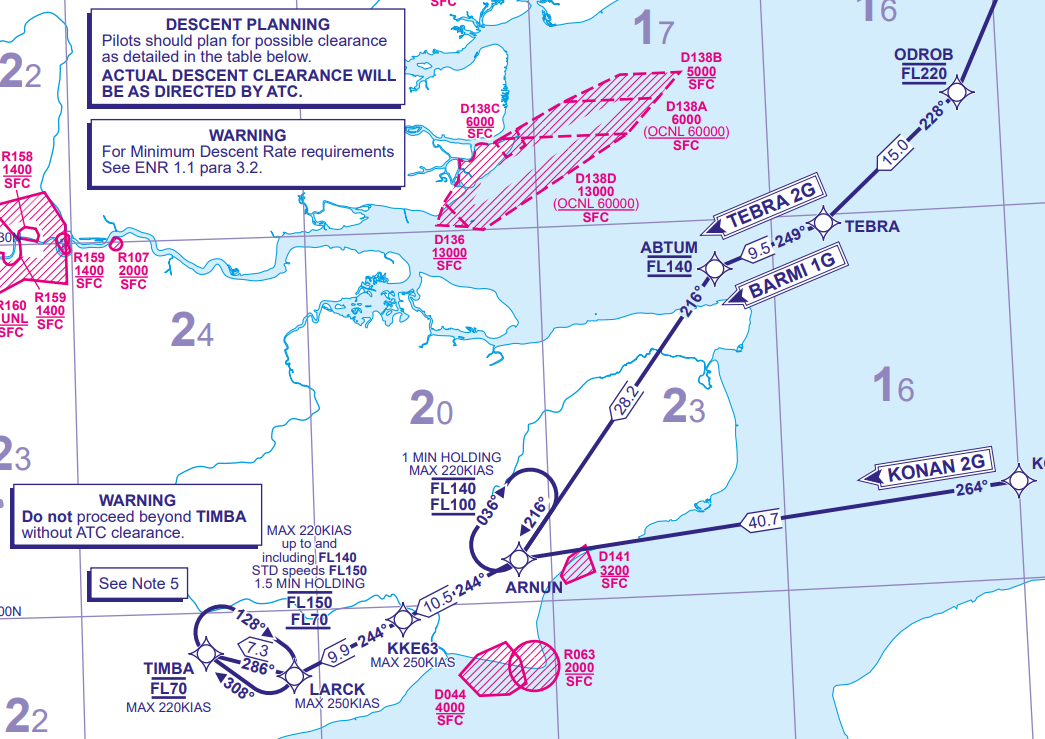
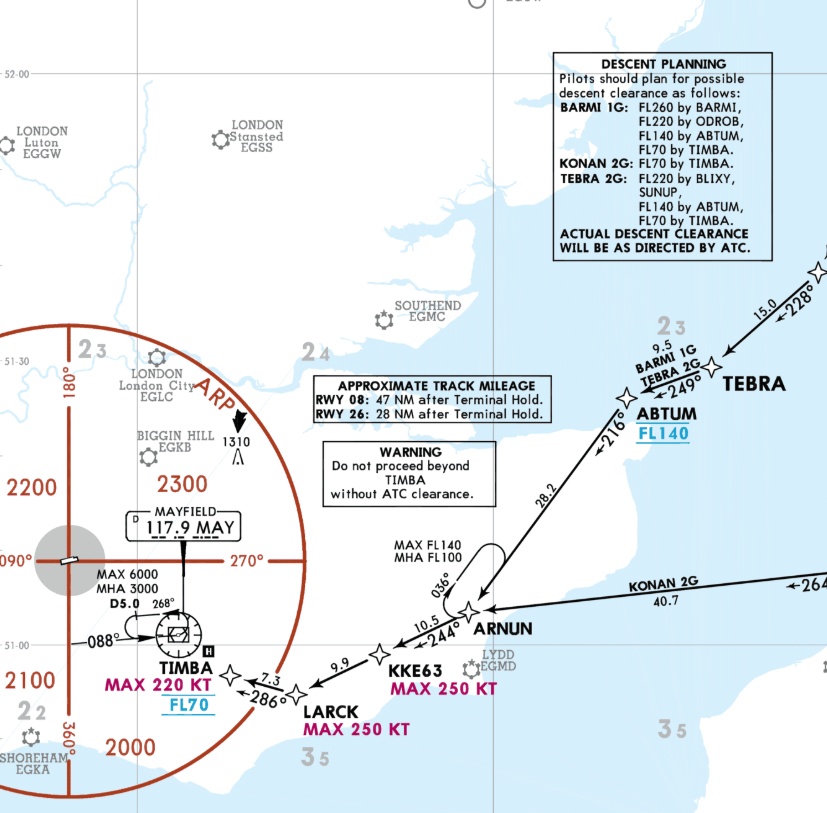
Use og Navigraph charts as per their Brand Guidelines

diff --git a/docs/beginner-guide/descent.md b/docs/beginner-guide/descent.md
@@ -39,7 +39,7 @@ This guide will cover these phases:
 ## Base knowledge: Route, Star and Approach
 
 - __Basics__<br/>
-  As we have learned in previous chapters a flight route begins with a origin airport and a SID to safely guide the aircraft away from the airport to the first waypoint on their actual route. Similar to a SID the arrival to an airport is done via a STAR (Standard Terminal Arrival Route) and an IAP (Instrument Approach, often APPR) to safely bring the aircraft into a position to land on the destination airport with as little ATC communication as possible.
+  As we have learned in previous chapters a flight route begins with an origin airport and a SID to safely guide the aircraft away from the airport to the first waypoint on their actual route. Similar to a SID the arrival to an airport is done via a STAR (Standard Terminal Arrival Route) and an IAP (Instrument Approach, often APPR) to safely bring the aircraft into a position to land on the destination airport with as little ATC communication as possible.
 
 - __STAR__<br/>
   A Standard Terminal Arrival Route (STAR) ensures safe and efficient traffic from the last en-route waypoint to the initial approach fix (IAF) of the Instrument Approach (IAP). It separates aircraft and avoids conflicts through specific routing, levels/altitudes, speed restrictions and checkpoints often with holding areas.
@@ -72,8 +72,7 @@ This guide will cover these phases:
 !!! info "Microsoft Flight Simulator and navigation charts"
     Although Microsoft Flight Simulator allows some flight planning through the user interface it is highly recommended to use navigational charts when flying airliners. MSFS' flight planning does not provide sufficient information to correctly fly a STAR or an approach.
 
-    There are several good sources for charts. One we can recommend is
-    [Chartfox](https://chartfox.org/) which you can use for free after creating a free VATSIM account.
+    There are several good sources for charts - free or subscription based. A good free solution is [Chartfox](https://chartfox.org/) which only requires a VATSIM account. One of the most known subscription based sources for charts is [Navigraph](https://navigraph.com/home). It is planned to integrate both solutions into the FlyByWire A32NX FlyPad in the future. 
     
     Often a simple Internet search will do the trick: Search for "<airport icao code> charts": E.g., "EDDM charts"  
 
@@ -119,9 +118,9 @@ I will do this as the very last step -->
 
 **Example chart:**
 
-![STAR EGKK TEBRA](../assets/beginner-guide/descent/STAR_EGKK_TEBRA.png "STAR EGKK TEBRA")
-
-(source: [www.aurora.nats.co.uk EGKK TEBRA2G](https://www.aurora.nats.co.uk/htmlAIP/Publications/2021-06-17-AIRAC/graphics/203600.pdf))
+![STAR EGKK TEBRA](../assets/beginner-guide/descent/STAR_EGKK_TEBRA.png "STAR EGKK TEBRA")<br/>
+Copyright © 2021 Navigraph / Jeppesen<br/>
+"Navigraph Charts are intended for flight simulation use only, not for navigational use."
 
 **Using the FlyPad:**
 
@@ -144,7 +143,7 @@ Plus margin (~10%):  59 NM
 
 Margin can be lower when headwind and larger for tailwind.
 
-As can be seen on the chart there will be a further descent to TIMBA at FL70 and after that (as can be see on [this](https://www.aurora.nats.co.uk/htmlAIP/Publications/2021-06-17-AIRAC/graphics/114442.pdf) chart) there will be a descent to the final approach which will be at 2000ft at the Final Approach Fix FF26L.
+As can be seen on the chart there will be a further descent to TIMBA at FL70 and after that (not visible on the chartabove) there will be a descent to the final approach which will be at 2000ft at the Final Approach Fix FF26L.
 
 The same methodology/calculation as our initial descent can be applied to these descents as well but they are much easier as they are usually designed in a way that an aircraft with a 3° descent path can make these descents with ease.
 
